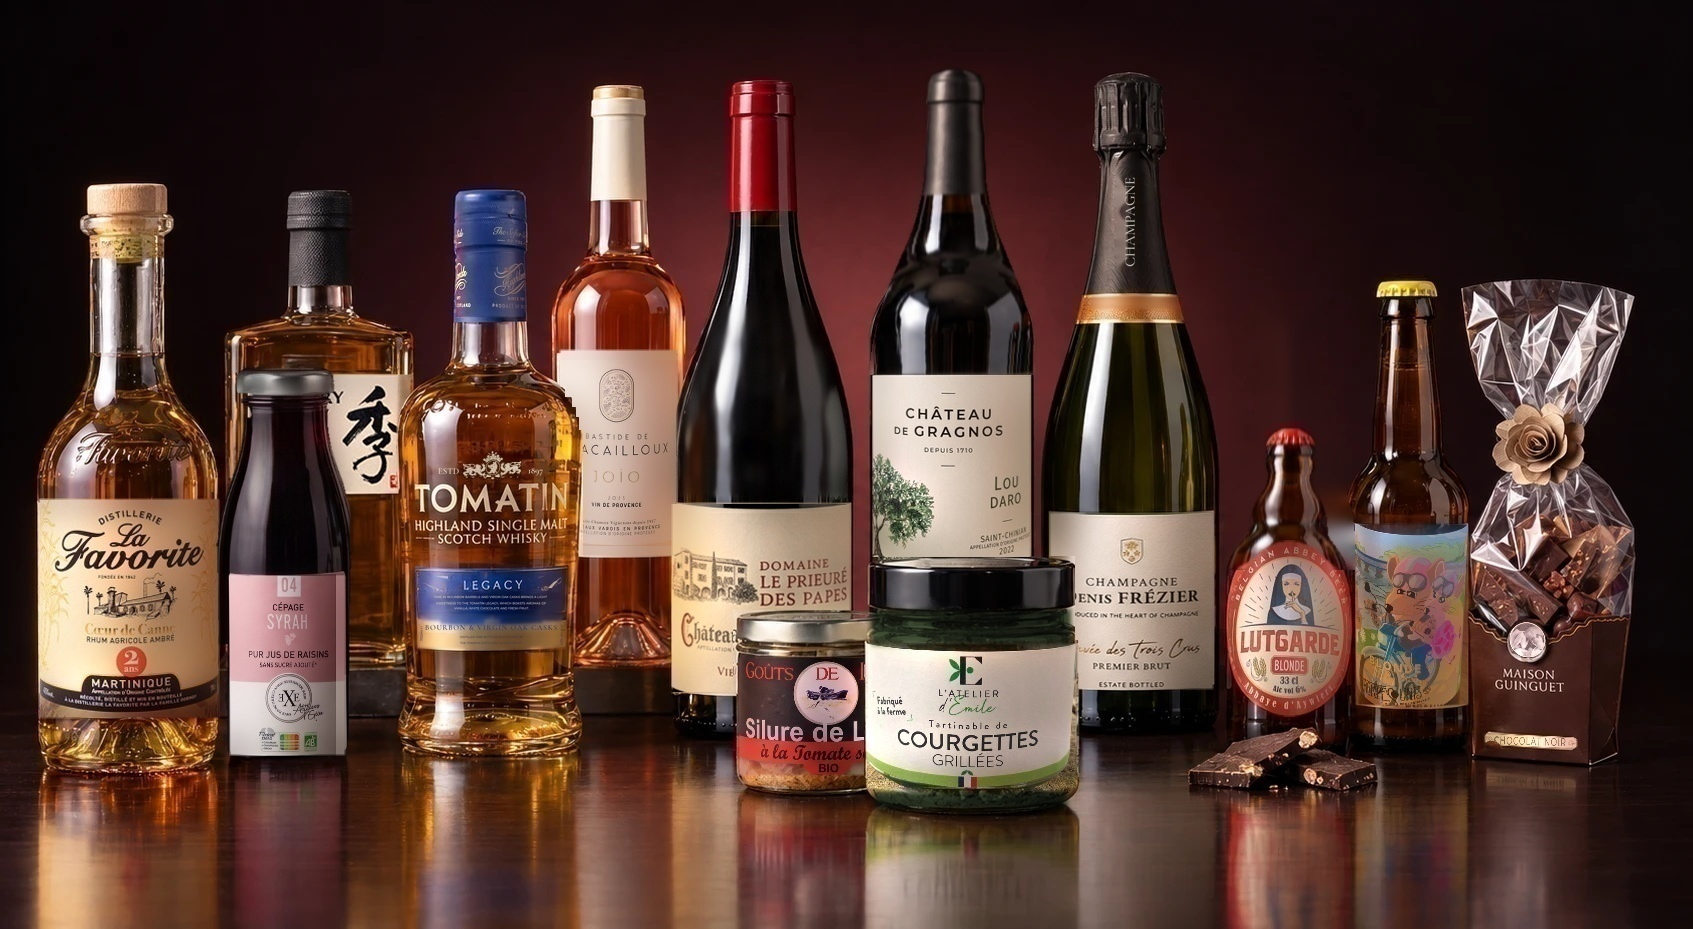
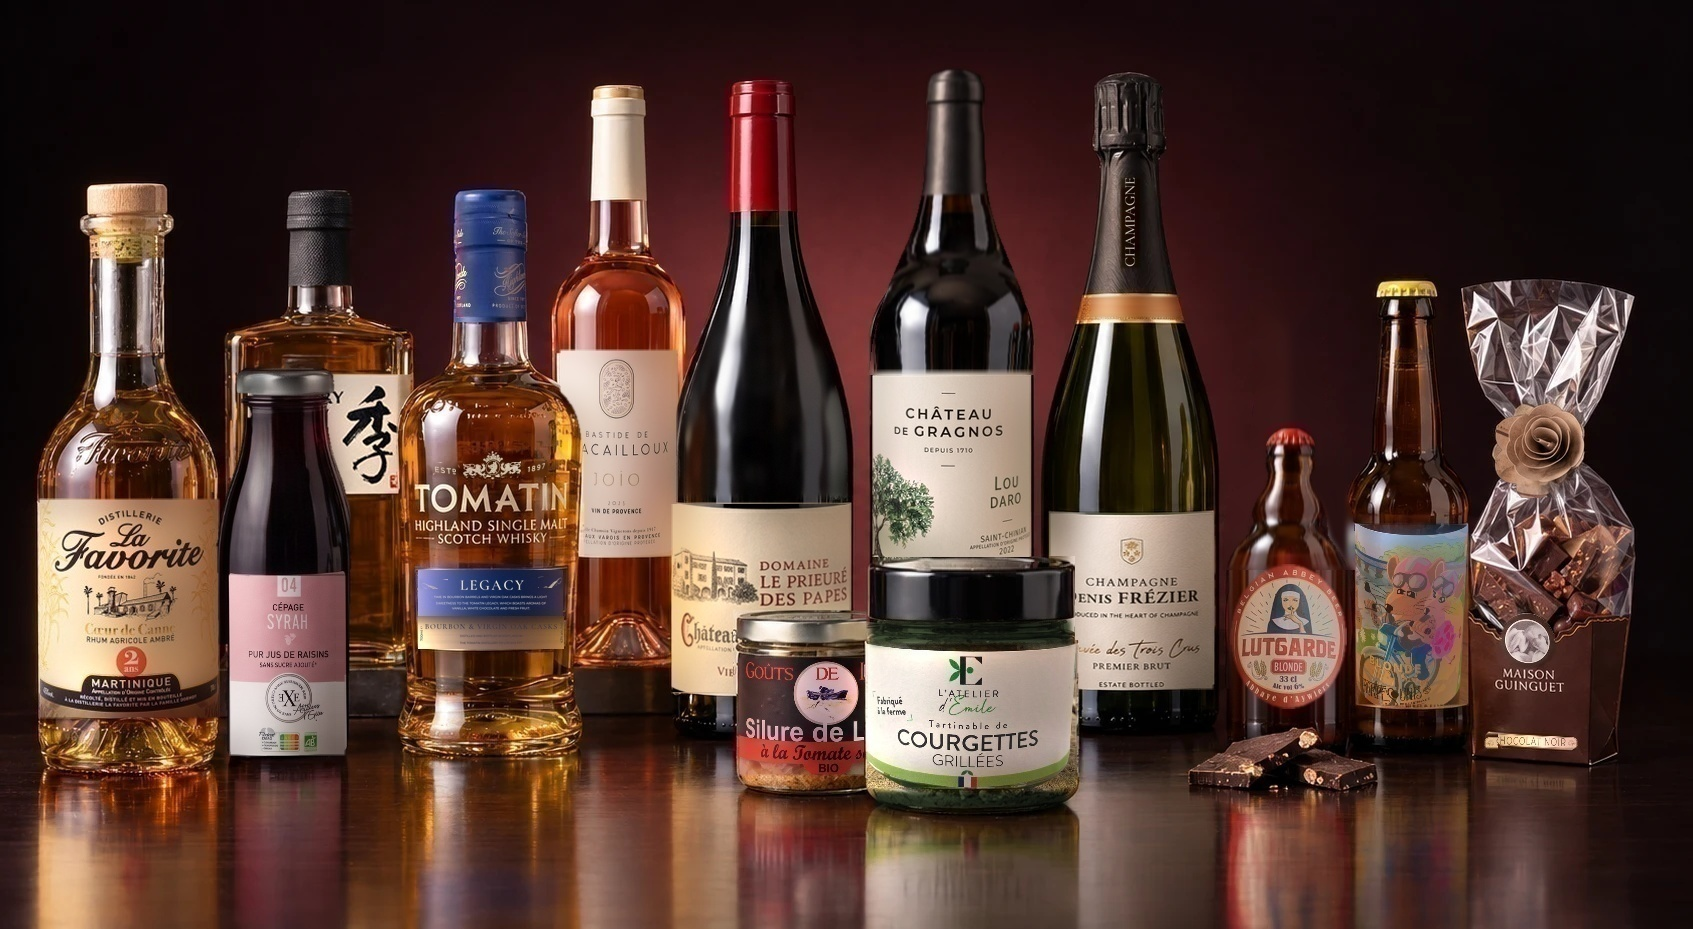
Photo v15 : corrections du 2e audit (Lutgarde à l'échelle réelle, Tomatin propre et fidèle, ESTᴰ 1897, raccords lisses, chocolat rose et médaillon réels, couvercle du pot, espace insécable)
Claude-Session: https://claude.ai/code/session_01MhDWXdDg6yxkfVQXWRp9UB

diff --git a/panneau/tools/corrige_textes_photo.py b/panneau/tools/corrige_textes_photo.py
@@ -195,26 +195,20 @@ CORRECTIONS_V14 = [
 # Photo affinée par ChatGPT (resultat_chatgpt_v15.png, 1693 x 929) : toutes les étiquettes sont recollées en
 # entier depuis les photos des vrais produits (remplace_etiquette.py) ; restent ces textes.
 CORRECTIONS_V15 = [
-    # Whisky Tomatin Legacy : « ESTD » et « 1897 » de part et d'autre du blason
-    dict(zone=(435, 464, 462, 477), mode='clair', texte='ESTD', police='serif', poids='SemiBold', x=448.5, y=470.5, cap=5.4, align='c', couleur=CREME_TOM),
-    dict(zone=(524, 464, 548, 477), mode='clair', texte='1897', police='serif', poids='SemiBold', x=535.5, y=470.5, cap=5.4, align='c', couleur=CREME_TOM),
-    # point parasite avant « LEGACY », texte du bandeau bleu (et cadre inventé)
-    dict(zone=(453, 580, 460, 588), mode='clair', plein=True, texte=None, cap=3),
-    dict(zone=(418, 592, 562, 611), mode='clair', plein=True, texte=None, cap=3),
-    dict(zone=(418, 611, 562, 616), mode='clair', plein=True, texte=None, cap=2),
+    # Whisky Tomatin Legacy (bandeau bleu et bande crème reconstruits par reconstruit_bande.py)
+    dict(texte='L\u200aE\u200aG\u200aA\u200aC\u200aY', police='serif', poids='SemiBold', x=492.5, y=585, cap=9.0, align='c', couleur=(226, 220, 204)),
     dict(texte='TIME IN BOURBON BARRELS AND VIRGIN OAK CASKS BRINGS A LIGHT', police='sans', poids='Medium', x=491, y=597.5, cap=2.2, align='c', couleur=(220, 214, 200)),
     dict(texte='SWEETNESS TO THE TOMATIN LEGACY, WHICH BOASTS AROMAS OF', police='sans', poids='Medium', x=491, y=603, cap=2.2, align='c', couleur=(220, 214, 200)),
-    dict(texte='VANILLA, WHITE CHOCOLATE AND FRESH FRUIT.', police='sans', poids='Medium', x=491, y=608, cap=2.1, align='c', couleur=(220, 214, 200)),
-    # bande crème : « BOURBON & VIRGIN OAK CASKS » en capitales romaines fines et espacées, bleu nuit
-    dict(zone=(420, 615, 562, 634), mode='sombre', plein=True, texte='B\u200aO\u200aU\u200aR\u200aB\u200aO\u200aN\u200a \u200a&\u200a \u200aV\u200aI\u200aR\u200aG\u200aI\u200aN\u200a \u200aO\u200aA\u200aK\u200a \u200aC\u200aA\u200aS\u200aK\u200aS', police='serif', poids='Medium', x=491, y=627, cap=4.6, align='c', couleur=(48, 52, 82)),
-    dict(zone=(417, 633, 566, 649), mode='sombre', plein=True, texte=None, cap=3),
-    dict(texte='DISTILLED AND BOTTLED IN SCOTLAND BY', police='sans', poids='Medium', x=491, y=637, cap=2.0, align='c', couleur=(60, 58, 70)),
-    dict(texte='THE TOMATIN DISTILLERY CO LTD IV13 7YT', police='sans', poids='Medium', x=491, y=643.5, cap=2.0, align='c', couleur=(60, 58, 70)),
+    dict(texte='VANILLA, WHITE CHOCOLATE AND FRESH FRUIT.', police='sans', poids='Medium', x=491, y=608.5, cap=2.2, align='c', couleur=(220, 214, 200)),
+    # « BOURBON & VIRGIN OAK CASKS » en capitales romaines fines et espacées, bleu nuit
+    dict(texte='B\u200aO\u200aU\u200aR\u200aB\u200aO\u200aN\u200a \u200a&\u200a \u200aV\u200aI\u200aR\u200aG\u200aI\u200aN\u200a \u200aO\u200aA\u200aK\u200a \u200aC\u200aA\u200aS\u200aK\u200aS', police='serif', poids='Medium', x=491, y=626, cap=4.6, align='c', couleur=(48, 52, 82)),
+    dict(texte='DISTILLED AND BOTTLED IN SCOTLAND BY', police='sans', poids='Medium', x=491, y=636, cap=2.0, align='c', couleur=(60, 58, 70)),
+    dict(texte='THE TOMATIN DISTILLERY CO LTD IV13 7YT', police='sans', poids='Medium', x=491, y=642.5, cap=2.0, align='c', couleur=(60, 58, 70)),
     # contenance et degré écrits à la verticale aux deux bouts de la bande crème, comme sur la vraie étiquette
-    dict(texte='700ml ℮', police='sans', poids='Medium', vertical=True, x=421.5, y=634, cap=2.4, align='c', couleur=(60, 58, 70)),
-    dict(texte='43% alc./vol.', police='sans', poids='Medium', vertical=True, x=561.5, y=634, cap=2.4, align='c', couleur=(60, 58, 70)),
+    dict(texte='700ml \u212e', police='sans', poids='Medium', vertical=True, x=421.5, y=633, cap=2.4, align='c', couleur=(60, 58, 70)),
+    dict(texte='43% alc./vol.', police='sans', poids='Medium', vertical=True, x=561.5, y=633, cap=2.4, align='c', couleur=(60, 58, 70)),
     # Champagne Denis Frézier : « CHAMPAGNE » sur la capsule, en capitales romaines argentées (pas en bâton doré)
-    dict(zone=(1116, 174, 1144, 270), mode='clair', texte='CHAMPAGNE', police='serif', poids='Medium', vertical=True,
+    dict(zone=(1121, 178, 1140, 268), mode='clair', plein=True, texte='CHAMPAGNE', police='serif', poids='Medium', vertical=True,
          x=1130, y=222, cap=9.0, align='c', couleur=(186, 184, 178)),
 ]
 

diff --git a/panneau/tools/remplace_etiquette.py b/panneau/tools/remplace_etiquette.py
@@ -9,6 +9,8 @@ Usage (depuis panneau/) :
     Les rectangles C… (facultatifs, coordonnées de la photo) sont les parties de l'étiquette cachées par un
     autre produit placé devant : on n'y touche pas.
     Variable OVALE=1 : étiquette ovale (masque elliptique inscrit dans la boîte, source étirée à la boîte).
+    Variable CACHE_POLY="x,y x,y ...;..." : parties cachées données en polygones (bords lisses).
+    Variable GAIN=r,g,b : étiquette posée sur du verre nu (pas de transfert d'éclairage, gain par canal).
     Variable FONDU=n : bords fondus sur n px (3 par défaut).
     Variable ETIRER=1 : source étirée à la boîte (proportions proches), sans prolongement du papier.
 """
@@ -56,12 +58,30 @@ def main():
     for i in range(0, len(caches), 4):
         cx0, cy0, cx1, cy1 = caches[i:i + 4]
         visible[max(cy0 - dy0, 0):max(cy1 - dy0, 0), max(cx0 - dx0, 0):max(cx1 - dx0, 0)] = False
+    visible_rect = visible.copy()
+    if os.environ.get('CACHE_POLY'):   # parties cachées en polygone (bord courbe d'une bouteille devant)
+        m = np.zeros(img.shape[:2], np.uint8)
+        for poly in os.environ['CACHE_POLY'].split(';'):
+            pts = np.array([list(map(int, p.split(','))) for p in poly.split()], np.int32)
+            cv2.fillPoly(m, [pts], 255)
+        m = cv2.GaussianBlur(m.astype(np.float32) / 255, (0, 0), 0.8)[dy0:dy1, dx0:dx1]
+        visible = visible & (m < 0.5)
+        douceur = 1 - m
+    else:
+        douceur = None
     # éclairage mesuré seulement sur la partie visible (les produits devant ne doivent pas l'assombrir)
     remplie = cible.copy()
     remplie[~visible] = np.median(cible[visible], axis=0)
-    lf_c = basse_frequence(remplie, 18)
-    lf_e = basse_frequence(etiq, 18)
-    etiq = etiq * (lf_c / np.maximum(lf_e, 1))
+    if os.environ.get('GAIN'):
+        # étiquette posée sur du verre (pas sur une ancienne étiquette) : pas de transfert d'éclairage,
+        # seulement un gain par canal pour l'accorder à l'exposition de la scène, et un léger ombrage
+        # latéral (lumière venant de la gauche)
+        g = np.array(list(map(float, os.environ['GAIN'].split(','))), np.float32)
+        etiq = etiq * g * np.linspace(1.04, 0.86, w, dtype=np.float32)[None, :, None]
+    else:
+        lf_c = basse_frequence(remplie, 18)
+        lf_e = basse_frequence(etiq, 18)
+        etiq = etiq * (lf_c / np.maximum(lf_e, 1))
 
     # bords fondus sur 3 px (FONDU=n pour plus, ex. étiquette imprimée sur le verre)
     f = int(os.environ.get('FONDU', '3'))
@@ -75,7 +95,10 @@ def main():
         a = np.zeros((h, w), np.float32)
         cv2.ellipse(a, (w // 2, h // 2), (w // 2 - 1, h // 2 - 1), 0, 0, 360, 1.0, -1)
         a = cv2.GaussianBlur(a, (0, 0), 1.0)
-    a = (a * visible)[..., None]
+    a = a * visible_rect
+    if douceur is not None:
+        a = a * douceur
+    a = a[..., None]
     img[dy0:dy1, dx0:dx1] = cible * (1 - a) + etiq * a
 
     Image.fromarray(img.clip(0, 255).astype(np.uint8)).save(sortie, quality=95)

diff --git a/panneau/tools/reconstruit_bande.py b/panneau/tools/reconstruit_bande.py
@@ -1,0 +1,43 @@
+"""Reconstruit une bande de couleur unie d'une étiquette (bandeau, bande de papier) abîmée par des retouches :
+couleur de chaque colonne prise sur des lignes de référence puis lissée (dégradé d'un cylindre), ombrage de chaque ligne pris en médiane
+sur la bande elle-même. Le texte est ensuite réécrit par corrige_textes_photo.py.
+
+Usage (depuis panneau/) :
+    python3 tools/reconstruit_bande.py entree.jpg sortie.jpg X0 Y0 X1 Y1 RY0 RY1 [clair|sombre]
+      X0..Y1  : bande à reconstruire ; RY0..RY1 : lignes de référence pour la couleur par colonne
+      clair   : fond plus clair que le texte (papier crème, texte foncé) ; sombre : l'inverse (bandeau bleu)
+      uni     : (11e argument) ne pas reprendre l'ombrage ligne par ligne de la bande abîmée
+"""
+import sys
+
+import cv2
+import numpy as np
+from PIL import Image
+
+entree, sortie = sys.argv[1], sys.argv[2]
+x0, y0, x1, y1, r0, r1 = map(int, sys.argv[3:9])
+fond_clair = (sys.argv[9] if len(sys.argv) > 9 else 'clair') == 'clair'
+q = 75 if fond_clair else 25          # le texte ne doit pas assombrir (ou éclaircir) le fond estimé
+img = np.array(Image.open(entree).convert('RGB')).astype(np.float32)
+col = np.percentile(img[r0:r1, x0:x1], q, axis=0)               # couleur par colonne
+# ombrage d'un cylindre : variation lente de gauche à droite -> polynôme de degré 2 ajusté en écartant
+# les colonnes aberrantes (taches, reflets)
+xs = np.arange(x1 - x0, dtype=np.float32)
+garde = np.ones(len(xs), bool)
+for _ in range(4):
+    coefs = [np.polyfit(xs[garde], col[garde, c], 2) for c in range(3)]
+    fit = np.stack([np.polyval(k, xs) for k in coefs], axis=1)
+    err = np.abs(col - fit).sum(axis=1)
+    garde = err < max(6.0, np.percentile(err, 70))
+col = fit
+L = img[y0:y1, x0:x1] @ np.array([0.299, 0.587, 0.114], np.float32)
+ligne = np.percentile(L, q, axis=1)                              # ombrage par ligne, sans le texte
+ref = np.percentile(col @ np.array([0.299, 0.587, 0.114], np.float32), q)
+ombre = np.convolve(np.pad(ligne / max(ref, 1), 2, mode='edge'), np.ones(5) / 5, 'valid')
+if len(sys.argv) > 10 and sys.argv[10] == 'uni':   # bande abîmée sur toute sa hauteur : pas d'ombrage repris
+    ombre = np.ones_like(ombre)
+neuf = col[None] * ombre[:, None, None]
+neuf += np.random.default_rng(5).normal(0, 1.2, neuf.shape).astype(np.float32)
+img[y0:y1, x0:x1] = neuf
+Image.fromarray(img.clip(0, 255).astype(np.uint8)).save(sortie, quality=95)
+print(sortie)

diff --git a/panneau/tools/retouche_couleur.py b/panneau/tools/retouche_couleur.py
@@ -11,6 +11,11 @@ Usage (depuis panneau/) :
     python3 tools/retouche_couleur.py entree.jpg sortie.jpg couleur R G B x,y x,y ...
     python3 tools/retouche_couleur.py entree.jpg sortie.jpg lisse SX SY x,y x,y ...
         (flou directionnel : efface une texture inventée, ex. motif sur une bague de capsule)
+    python3 tools/retouche_couleur.py entree.jpg sortie.jpg aplat R G B x,y x,y ...
+        (couleur unie, ex. combler le creux d'une lettre)
+    python3 tools/retouche_couleur.py entree.jpg sortie.jpg vertical 0 x,y x,y ...
+        (verre reconstruit colonne par colonne entre le haut et le bas du polygone : efface une étiquette
+         en gardant les reflets verticaux de la bouteille)
 """
 import sys
 
@@ -29,6 +34,8 @@ def main():
     elif mode == 'lisse':
         sx, sy = float(sys.argv[4]), float(sys.argv[5])
         pts = sys.argv[6:]
+    elif mode == 'vertical':
+        pts = sys.argv[5:]
     else:
         cible = np.array(list(map(float, sys.argv[4:7])), np.float32)
         pts = sys.argv[7:]
@@ -45,6 +52,23 @@ def main():
         neuf = cv2.cvtColor(hsv.clip(0, 255).astype(np.uint8), cv2.COLOR_HSV2RGB_FULL).astype(np.float32)
     elif mode == 'lisse':
         neuf = cv2.GaussianBlur(img.astype(np.float32), (0, 0), sigmaX=sx, sigmaY=sy)
+    elif mode == 'aplat':
+        neuf = np.broadcast_to(cible, img.shape).astype(np.float32)
+    elif mode == 'vertical':
+        f = img.astype(np.float32)
+        neuf = f.copy()
+        ys, xs = np.where(z > 0)
+        for x in range(xs.min(), xs.max() + 1):
+            col = np.where(z[:, x] > 0)[0]
+            if not len(col):
+                continue
+            y0, y1 = col.min() - 1, col.max() + 1
+            haut = f[max(0, y0 - 2):y0 + 1, x].mean(axis=0)
+            bas = f[y1:min(H, y1 + 3), x].mean(axis=0)
+            t = np.linspace(0, 1, y1 - y0 + 1, dtype=np.float32)[:, None]
+            neuf[y0:y1 + 1, x] = haut * (1 - t) + bas * t
+        neuf = cv2.GaussianBlur(neuf, (0, 0), sigmaX=0.7, sigmaY=2.0)
+        neuf += np.random.default_rng(4).normal(0, 1.0, neuf.shape).astype(np.float32)
     else:
         f = img.astype(np.float32)
         L = f @ np.array([0.299, 0.587, 0.114], np.float32)

diff --git a/panneau/tools/etire_zone.py b/panneau/tools/etire_zone.py
@@ -1,0 +1,35 @@
+"""Rééchantillonne verticalement une bande de la photo par morceaux : sert à rendre une partie plus haute
+qu'une autre sans rien inventer (ex. couvercle de pot trop plat : le couvercle s'allonge, le col raccourcit).
+
+Usage (depuis panneau/) :
+    python3 tools/etire_zone.py entree.jpg sortie.jpg X0 X1 A0:N0 A1:N1 A2:N2 ...
+    Les lignes d'origine A0 < A1 < ... sont envoyées sur les lignes N0 < N1 < ... (interpolation linéaire
+    entre deux repères), entre les colonnes X0 et X1. Les repères extrêmes doivent rester en place.
+"""
+import sys
+
+import cv2
+import numpy as np
+from PIL import Image
+
+entree, sortie = sys.argv[1], sys.argv[2]
+x0, x1 = int(sys.argv[3]), int(sys.argv[4])
+rep = [tuple(map(float, r.split(':'))) for r in sys.argv[5:]]
+img = np.array(Image.open(entree).convert('RGB'))
+H, W = img.shape[:2]
+anc = [r[0] for r in rep]
+neu = [r[1] for r in rep]
+y_a, y_b = int(neu[0]), int(neu[-1])
+mapy = np.zeros((y_b - y_a + 1, x1 - x0), np.float32)
+mapx = np.tile(np.arange(x0, x1, dtype=np.float32), (y_b - y_a + 1, 1))
+for i, y in enumerate(range(y_a, y_b + 1)):
+    mapy[i, :] = np.interp(y, neu, anc)
+bande = cv2.remap(img, mapx, mapy, cv2.INTER_LINEAR)
+out = img.copy()
+# bords gauche/droite fondus sur 2 px
+a = np.ones((1, x1 - x0, 1), np.float32)
+a[0, :2, 0] = [0.33, 0.66]
+a[0, -2:, 0] = [0.66, 0.33]
+out[y_a:y_b + 1, x0:x1] = (img[y_a:y_b + 1, x0:x1] * (1 - a) + bande * a).astype(np.uint8)
+Image.fromarray(out).save(sortie, quality=95)
+print(sortie)

diff --git a/panneau/tools/reforme_bouteille.py b/panneau/tools/reforme_bouteille.py
@@ -188,10 +188,16 @@ def main():
     m[:LIM][nouvelle[:LIM]] = 1
     m = cv2.GaussianBlur(m, (0, 0), 0.6)
     m[LIM:] = 0
+    for i in range(1, 7):             # raccord fondu avec la partie inchangée
+        m[LIM - i] *= i / 7
     out = fond * (1 - m[..., None]) + warp * m[..., None]
     out[LIM:] = img[LIM:]
     Image.fromarray(out.clip(0, 255).astype(np.uint8)).save(sortie, quality=95)
     print('corps ref', corps_ref, 'corps scene', corps_sc)
+    if os.environ.get('BORDS_SORTIE'):   # bords de la nouvelle bouteille, pour les retouches suivantes
+        with open(os.environ['BORDS_SORTIE'], 'w') as fh:
+            for y in sorted(spans_new):
+                fh.write('%d %.1f %.1f\n' % (y, spans_new[y][0], spans_new[y][1]))
     print(sortie, 'haut', haut_old, '->', haut_new, 'capsule', cap_sc, '->', round(cap_new), 'échelle', round(k, 3))
 
 

diff --git a/panneau/tools/colle_detoure.py b/panneau/tools/colle_detoure.py
@@ -5,8 +5,9 @@ l'ancien, le recouvre entièrement.
 
 Usage (depuis panneau/) :
     python3 tools/colle_detoure.py entree.jpg sortie.jpg produit.png X0 Y0 ECHELLE
-    (X0, Y0 : coin haut gauche du PNG une fois mis à l'échelle)
+    (X0, Y0 : coin haut gauche du PNG une fois mis à l'échelle) ; variable GAIN=r,g,b : gain par canal
 """
+import os
 import sys
 
 import numpy as np
@@ -21,6 +22,8 @@ def main():
     p = p.resize((round(p.width * k), round(p.height * k)), Image.LANCZOS)
     a = np.array(p).astype(np.float32)
     rgb, alpha = a[..., :3], a[..., 3:] / 255
+    if os.environ.get('GAIN'):   # accord des couleurs à la lumière de la scène
+        rgb = rgb * np.array(list(map(float, os.environ['GAIN'].split(','))), np.float32)
     out = np.array(img).astype(np.float32)
     h, w = rgb.shape[:2]
     zone = out[y0:y0 + h, x0:x0 + w]
